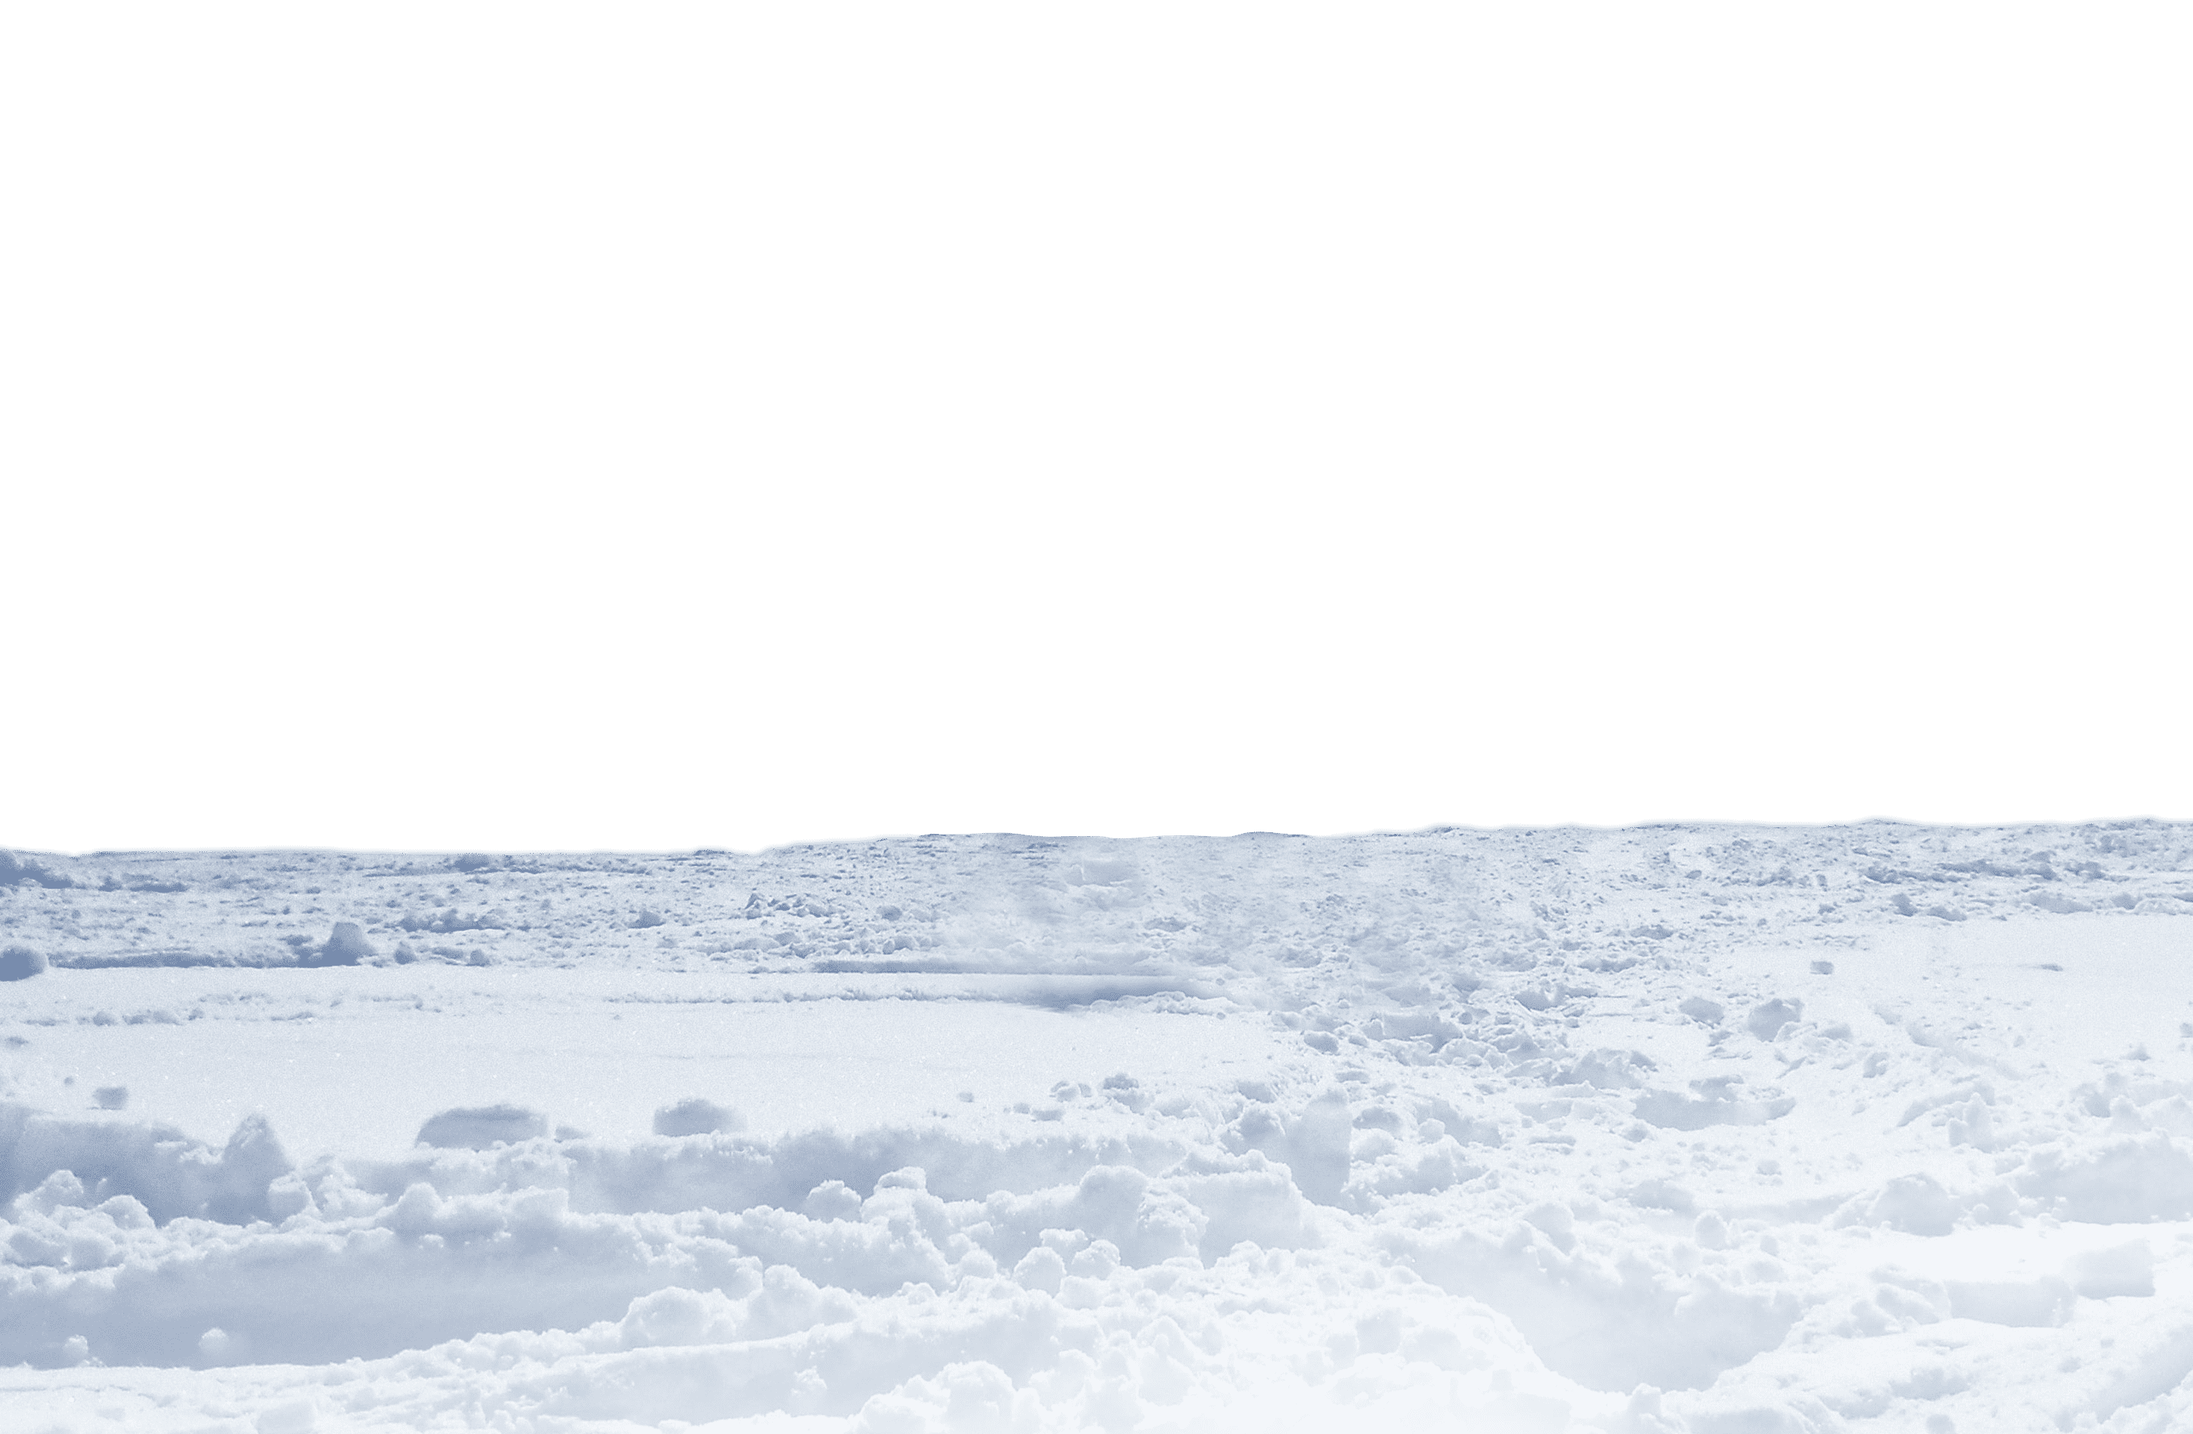
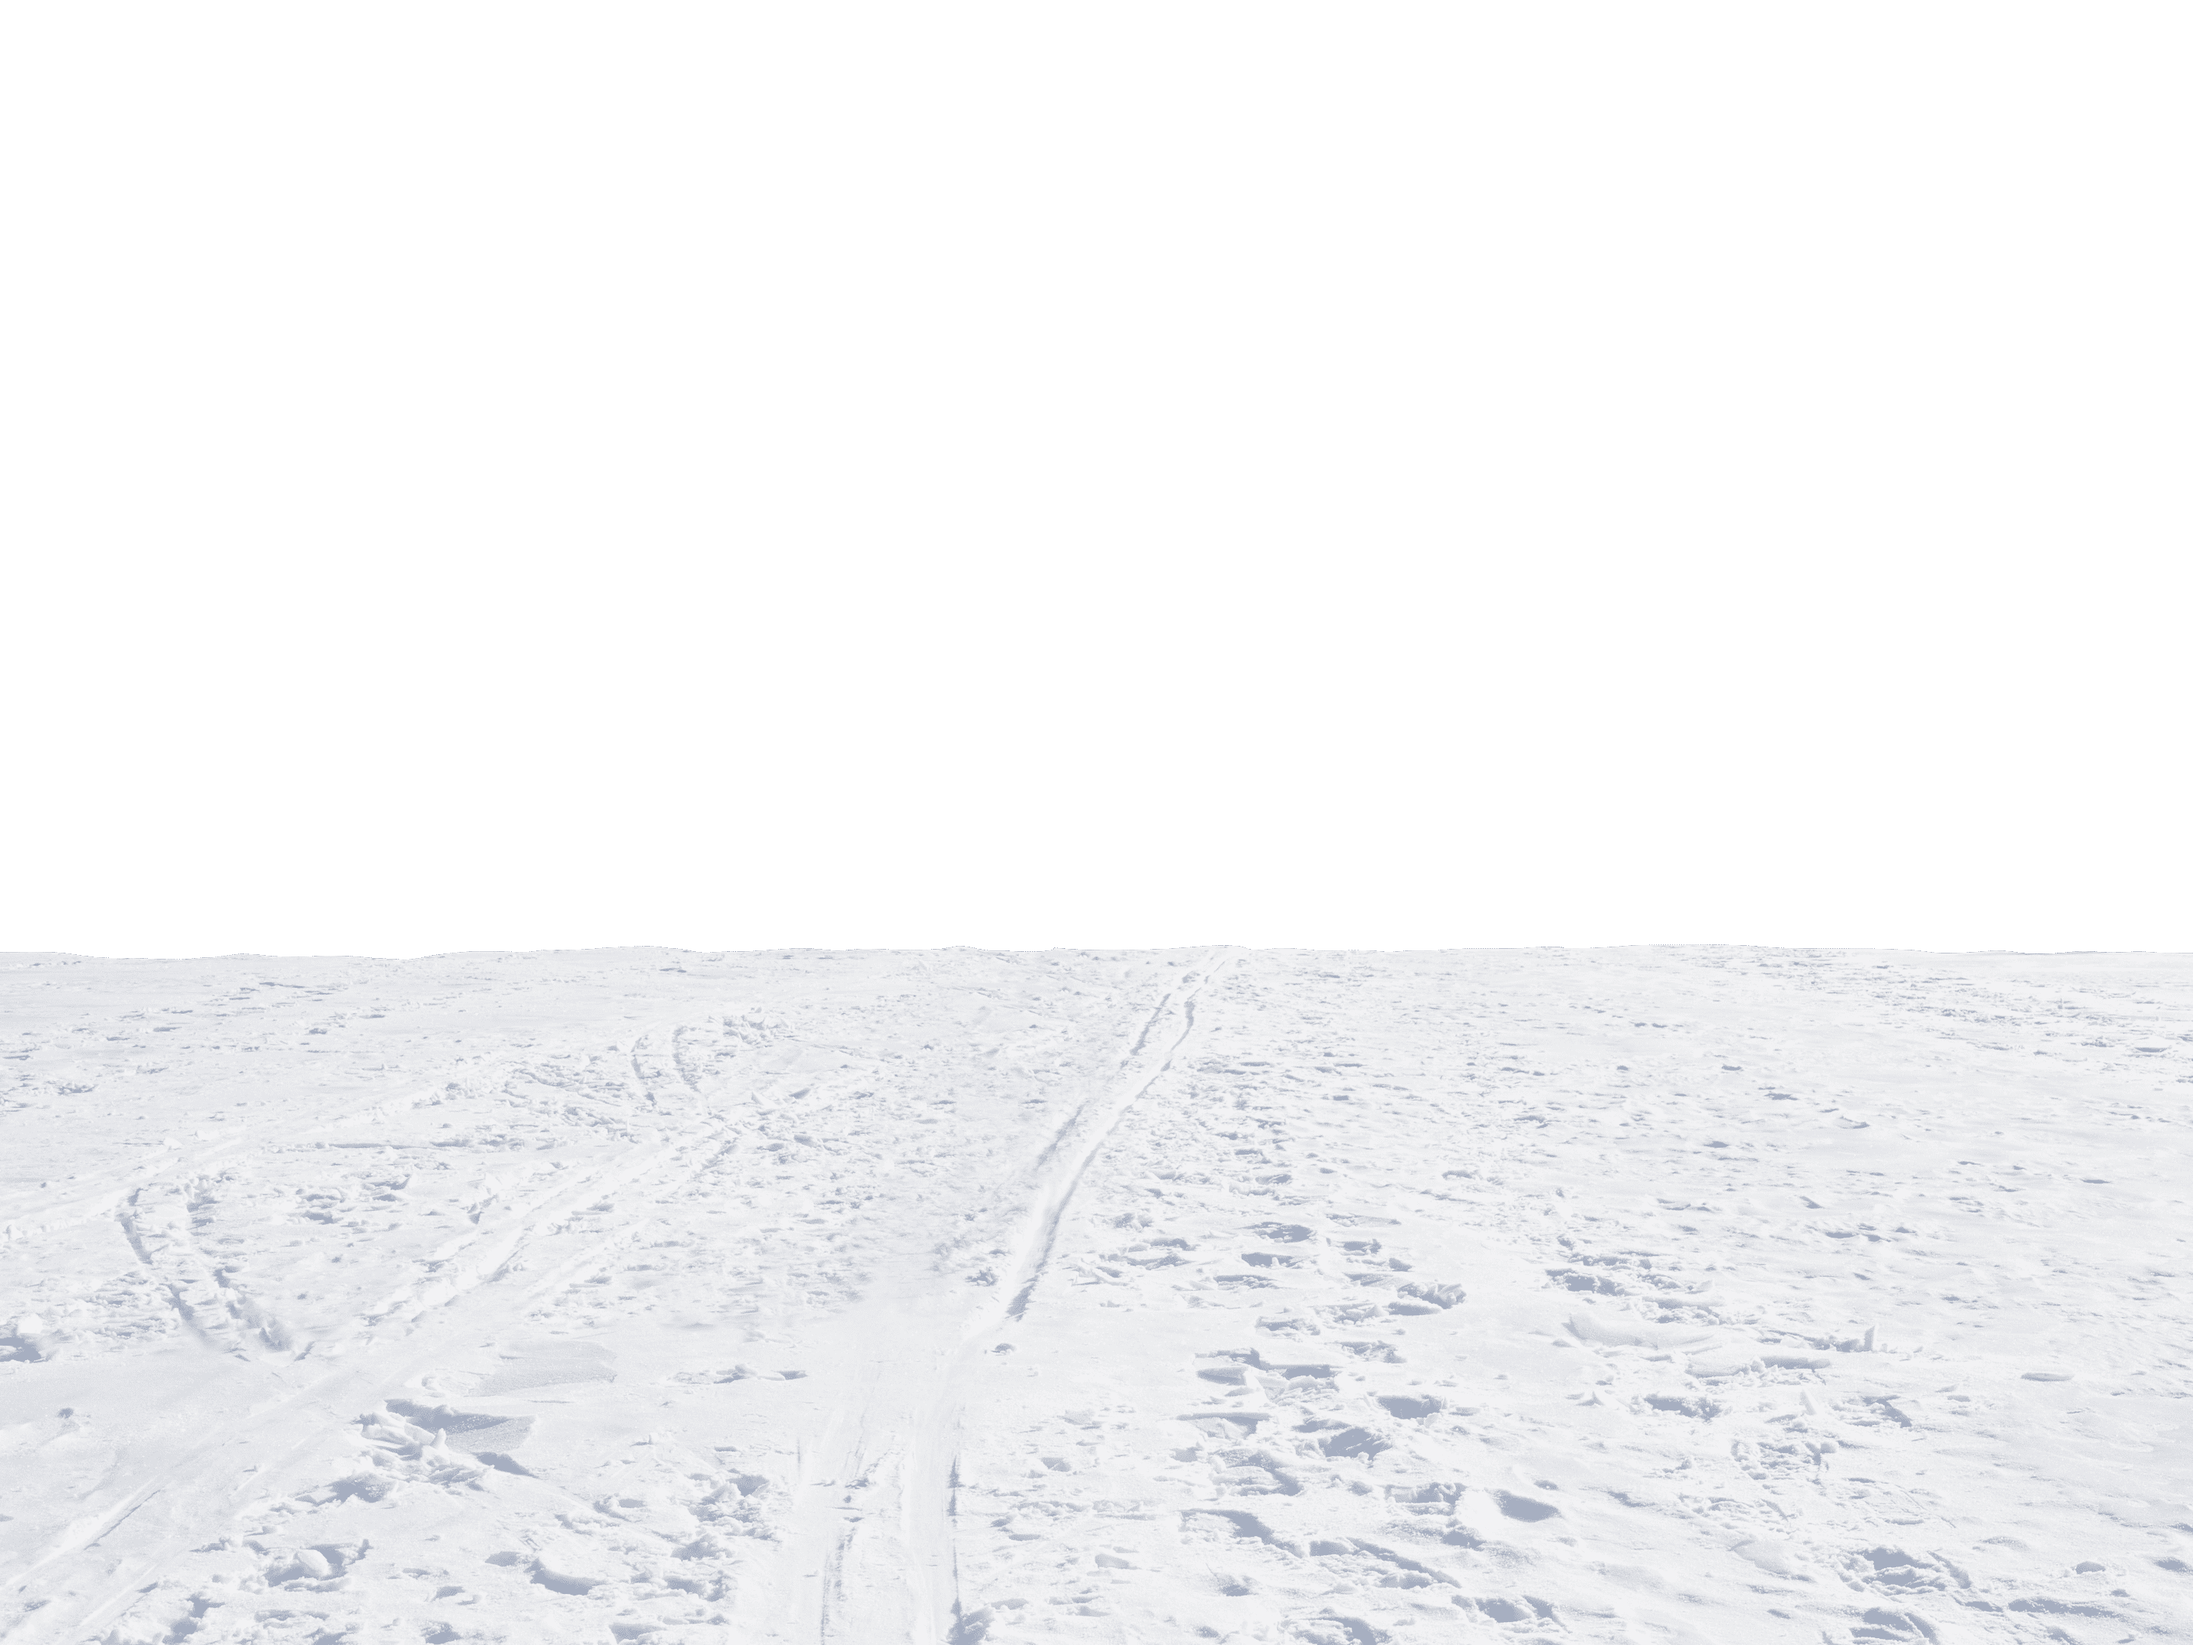
Added the new ground and person asset and also changed the styling

Changed region(s): [[0.0, 0.5544, 1.0, 1.0], [0.4062, 0.9241, 0.5, 1.0]]

diff --git a/client/src/components/SiteIndex/SiteIndex.scss b/client/src/components/SiteIndex/SiteIndex.scss
@@ -3,7 +3,7 @@
 .site-index {
   height: 100vh;
   position: relative;
-  background-color: #fff;
+  background-color: $paletteblue;
   z-index: 1;
 
   &__carousel {
@@ -53,12 +53,14 @@
 
     &--0 {
       background-image: url("../../assets/blue-mountain/blue-mountain_mobile.jpg");
-      // transform: translate3d(200%, 0%, 0);
     }
 
     &--1 {
       background-image: url("../../assets/horseshoe-valley/horseshoe-resort_mobile.jpg");
-      // transform: translate3d(325%, 0%, 0);
+    }
+
+    &--3 {
+      background-image: url("../../assets/mount-stlouis/mt-st-louis_mobile.jpg");
     }
   }
 
@@ -75,14 +77,15 @@
   }
 
   &__person {
-    width: 300px;
-    height: 200px;
+    width: 200px;
+    height: 400px;
     background-image: url("../../assets/site-index/person.png");
     background-repeat: no-repeat;
     background-size: cover;
     position: absolute;
-    top: 50%;
-    left: 39%;
+    top: 45%;
+    left: 35%;
     z-index: 200;
+    transform: scaleX(-1);
   }
 }

diff --git a/client/src/components/SiteIndex/SiteIndex.js b/client/src/components/SiteIndex/SiteIndex.js
@@ -151,7 +151,7 @@ export default class SiteIndex extends React.Component {
             1
           </div>
           <div
-            className="site-index__box site-index__box--0"
+            className="site-index__box site-index__box--3"
             onClick={() => this.position(2)}
           >
             2
